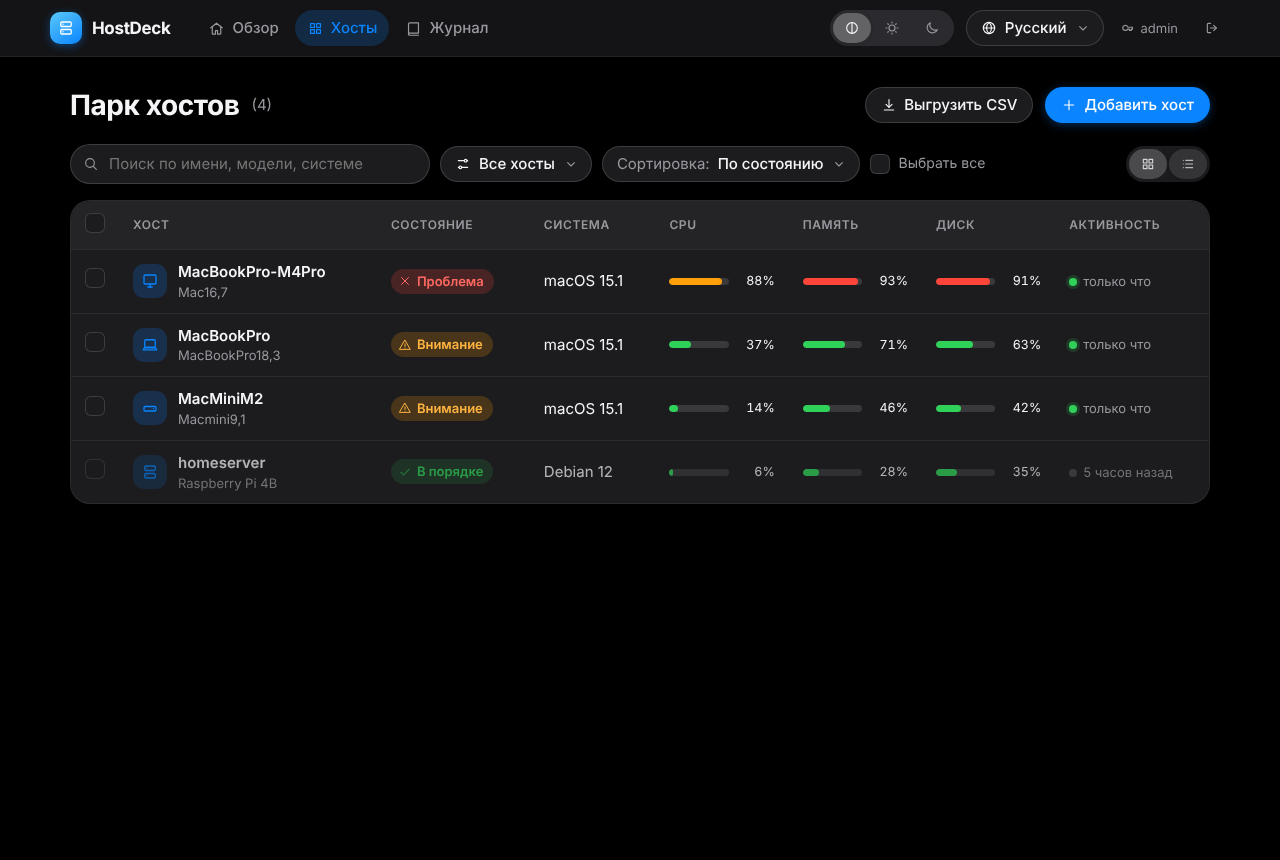
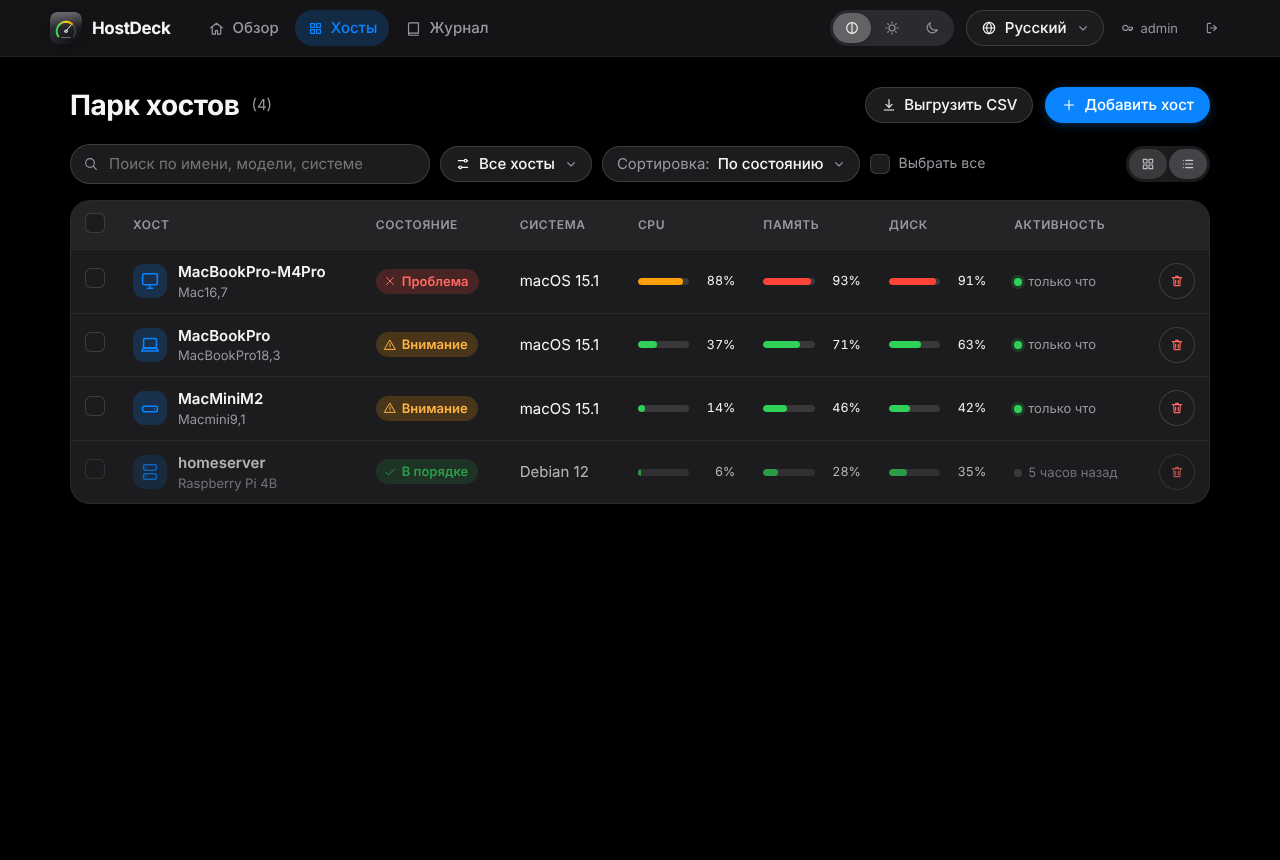
Скриншоты в README: обзор, подсказка, ПО, журнал, светлая тема, телефон

diff --git a/tests/seed_demo.py b/tests/seed_demo.py
@@ -16,7 +16,7 @@ def checks(**ov):
     out = [{"id": k, "status": s, "value": v} for k, (s, v) in base.items()]
     out.append({"id": "updates", "status": "ok", "value": "none", "num": now - 3600})
     out.append({"id": "timemachine", "status": "warn", "value": "backup_at", "num": now - 9 * 86400})
-    out.append({"id": "admins", "status": "ok", "value": "admins", "num": 1, "detail": "arsen"})
+    out.append({"id": "admins", "status": "ok", "value": "admins", "num": 1, "detail": "demo"})
     out.append({"id": "airdrop", "status": "ok", "value": "contacts"})
     out.append({"id": "xprotect", "status": "ok", "value": "updated_at", "num": now - 5 * 86400, "detail": "v5311"})
     out.append({"id": "disk", "status": "ok", "value": "used", "num": 42.0, "detail": "276.0"})
@@ -48,7 +48,7 @@ for i, (name, model, chip, mem, ver, st, m) in enumerate(HOSTS):
             if c["id"] == "disk":
                 c.update(status="fail", num=91.0, detail="43.0")
     posture = {"collected_at": now, "info": {"os": "macOS" if mac else "linux", "os_version": ver, "model": model or "Raspberry Pi 4B", "chip": chip,
-               "memory": mem, "arch": "arm64", "hostname": name, "agent": "0.2.0", "boot_time": str(int(now - 86400 * (3 + i))), "console_user": "arsentyev" if mac else "", **({"auto_update": "on"} if i != 3 else {})},
+               "memory": mem, "arch": "arm64", "hostname": name, "agent": "0.2.0", "boot_time": str(int(now - 86400 * (3 + i))), "console_user": "demo" if mac else "", **({"auto_update": "on"} if i != 3 else {})},
                "checks": ck if mac else [{"id": "platform", "status": "info", "value": "mac_only"}, ck[-1]]}
     tot = float(mem.split()[0]) * 2**30
     metrics = {"at": now, "cpu": m["cpu"], "load1": m["cpu"] / 100 * 8, "cores": 8, "mem_used": tot * m["mu"], "mem_total": tot, "swap_pct": 12 * i,

diff --git a/README.md b/README.md
@@ -26,13 +26,25 @@
 - **Инструкция администратора** — кнопка на главной (подключение, консоль, обслуживание, безопасность)
 - Регистрация хоста по одноразовому токену, роли `admin` / `operator` / `viewer`, журнал событий.
 
+![Обзор](docs/images/home-demo.png)
+
 ![Парк хостов](docs/images/fleet-demo.png)
 
 ![Хост: приборы и проверки](docs/images/host-demo.png)
 
+![Подсказка к проверке: что это, чем опасно, команда исправления](docs/images/tooltip-demo.png)
+
 ![Список](docs/images/list-demo.png)
 
+![Установленное ПО](docs/images/software-demo.png)
+
 ![Консоль root](docs/images/terminal-demo.png)
+
+![Журнал событий](docs/images/audit-demo.png)
+
+![Светлая тема](docs/images/host-light-demo.png)
+
+![Телефон](docs/images/mobile-demo.png)
 
 *Демо-данные.*
 
